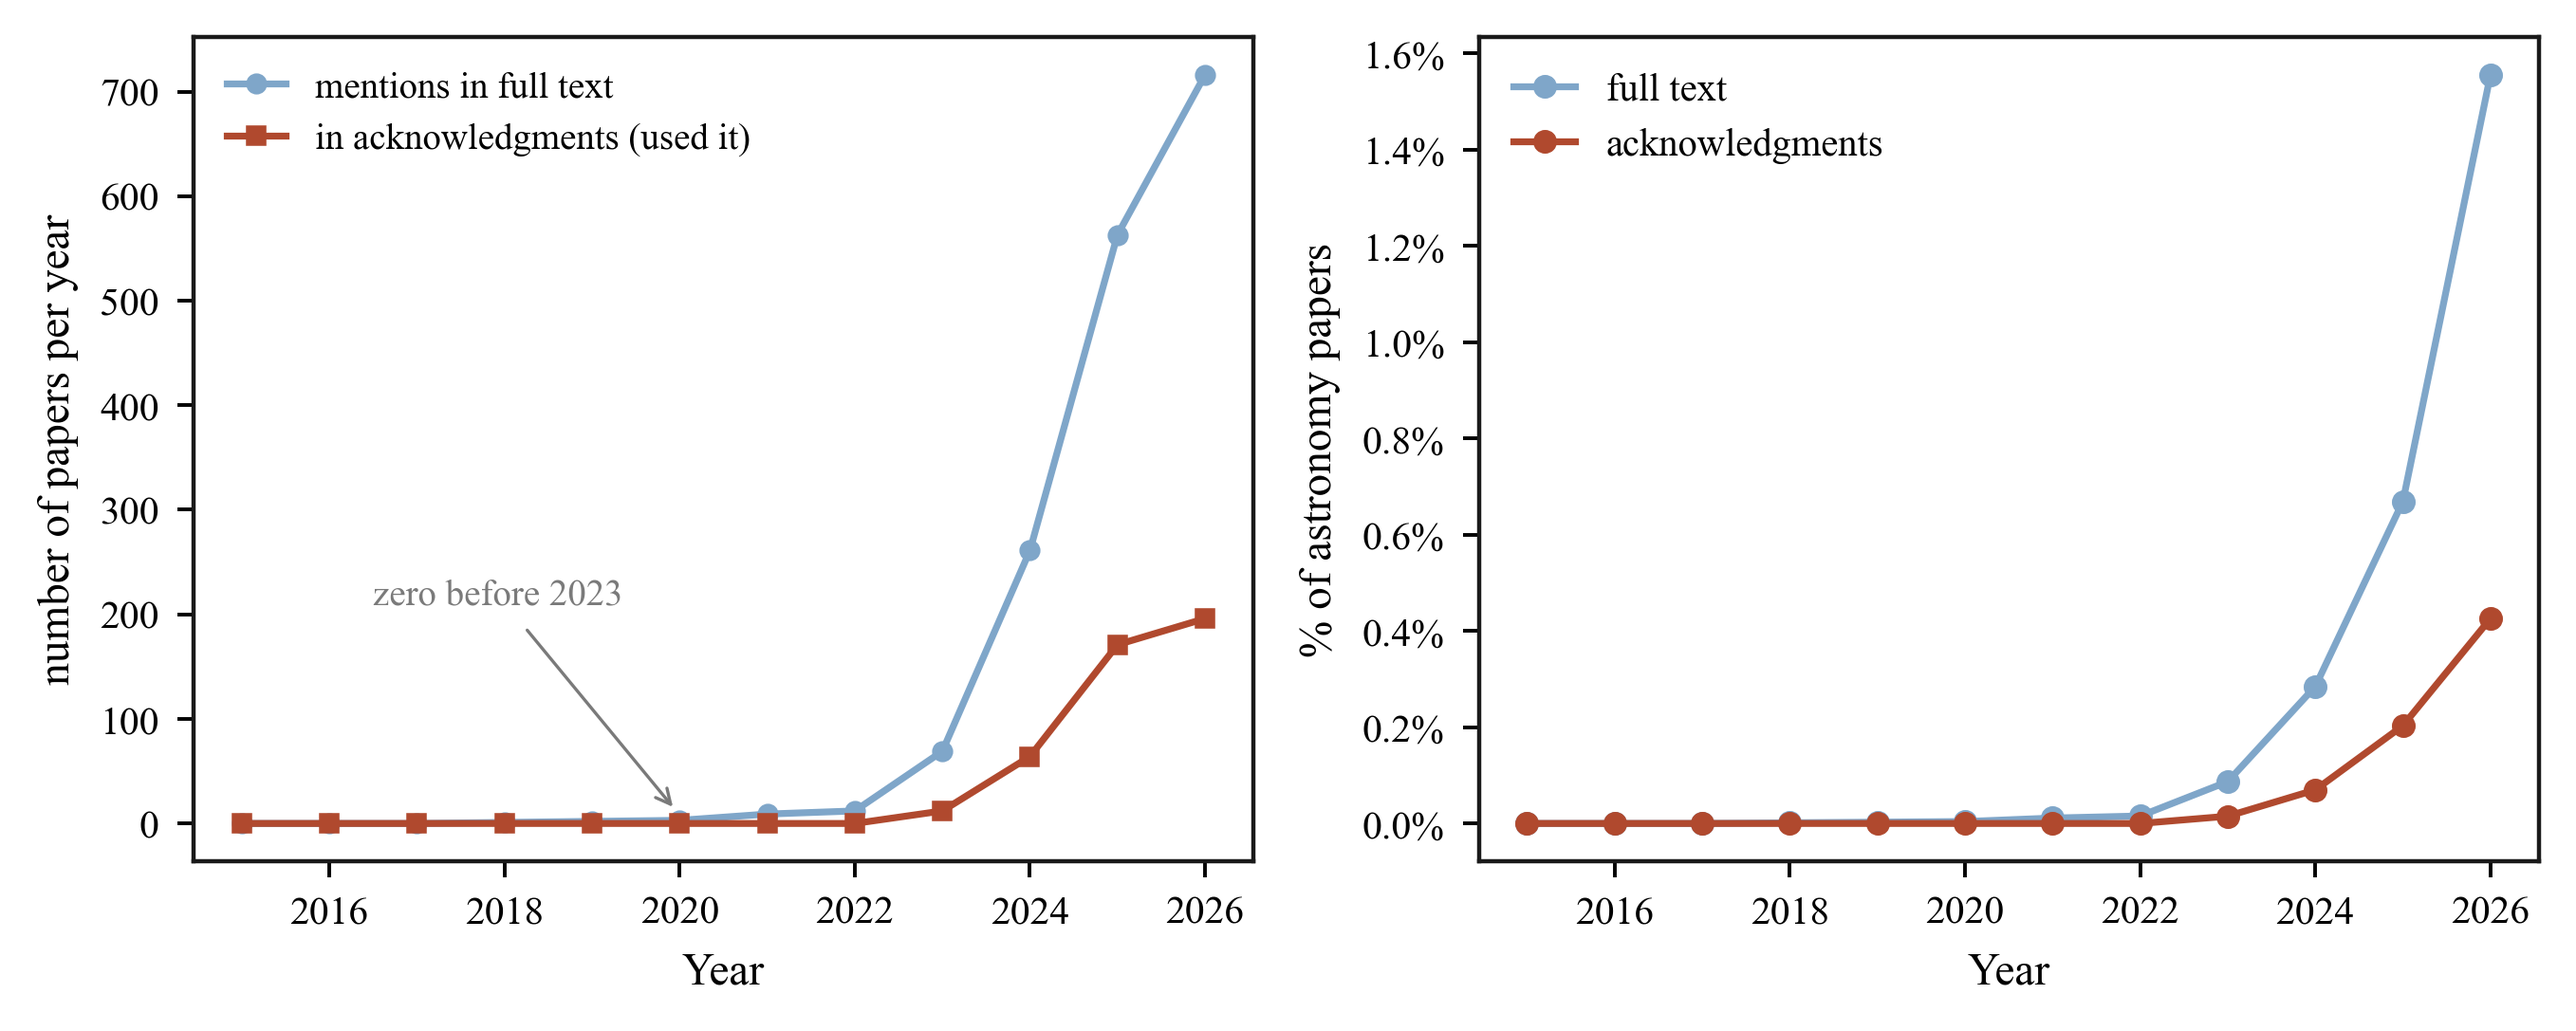
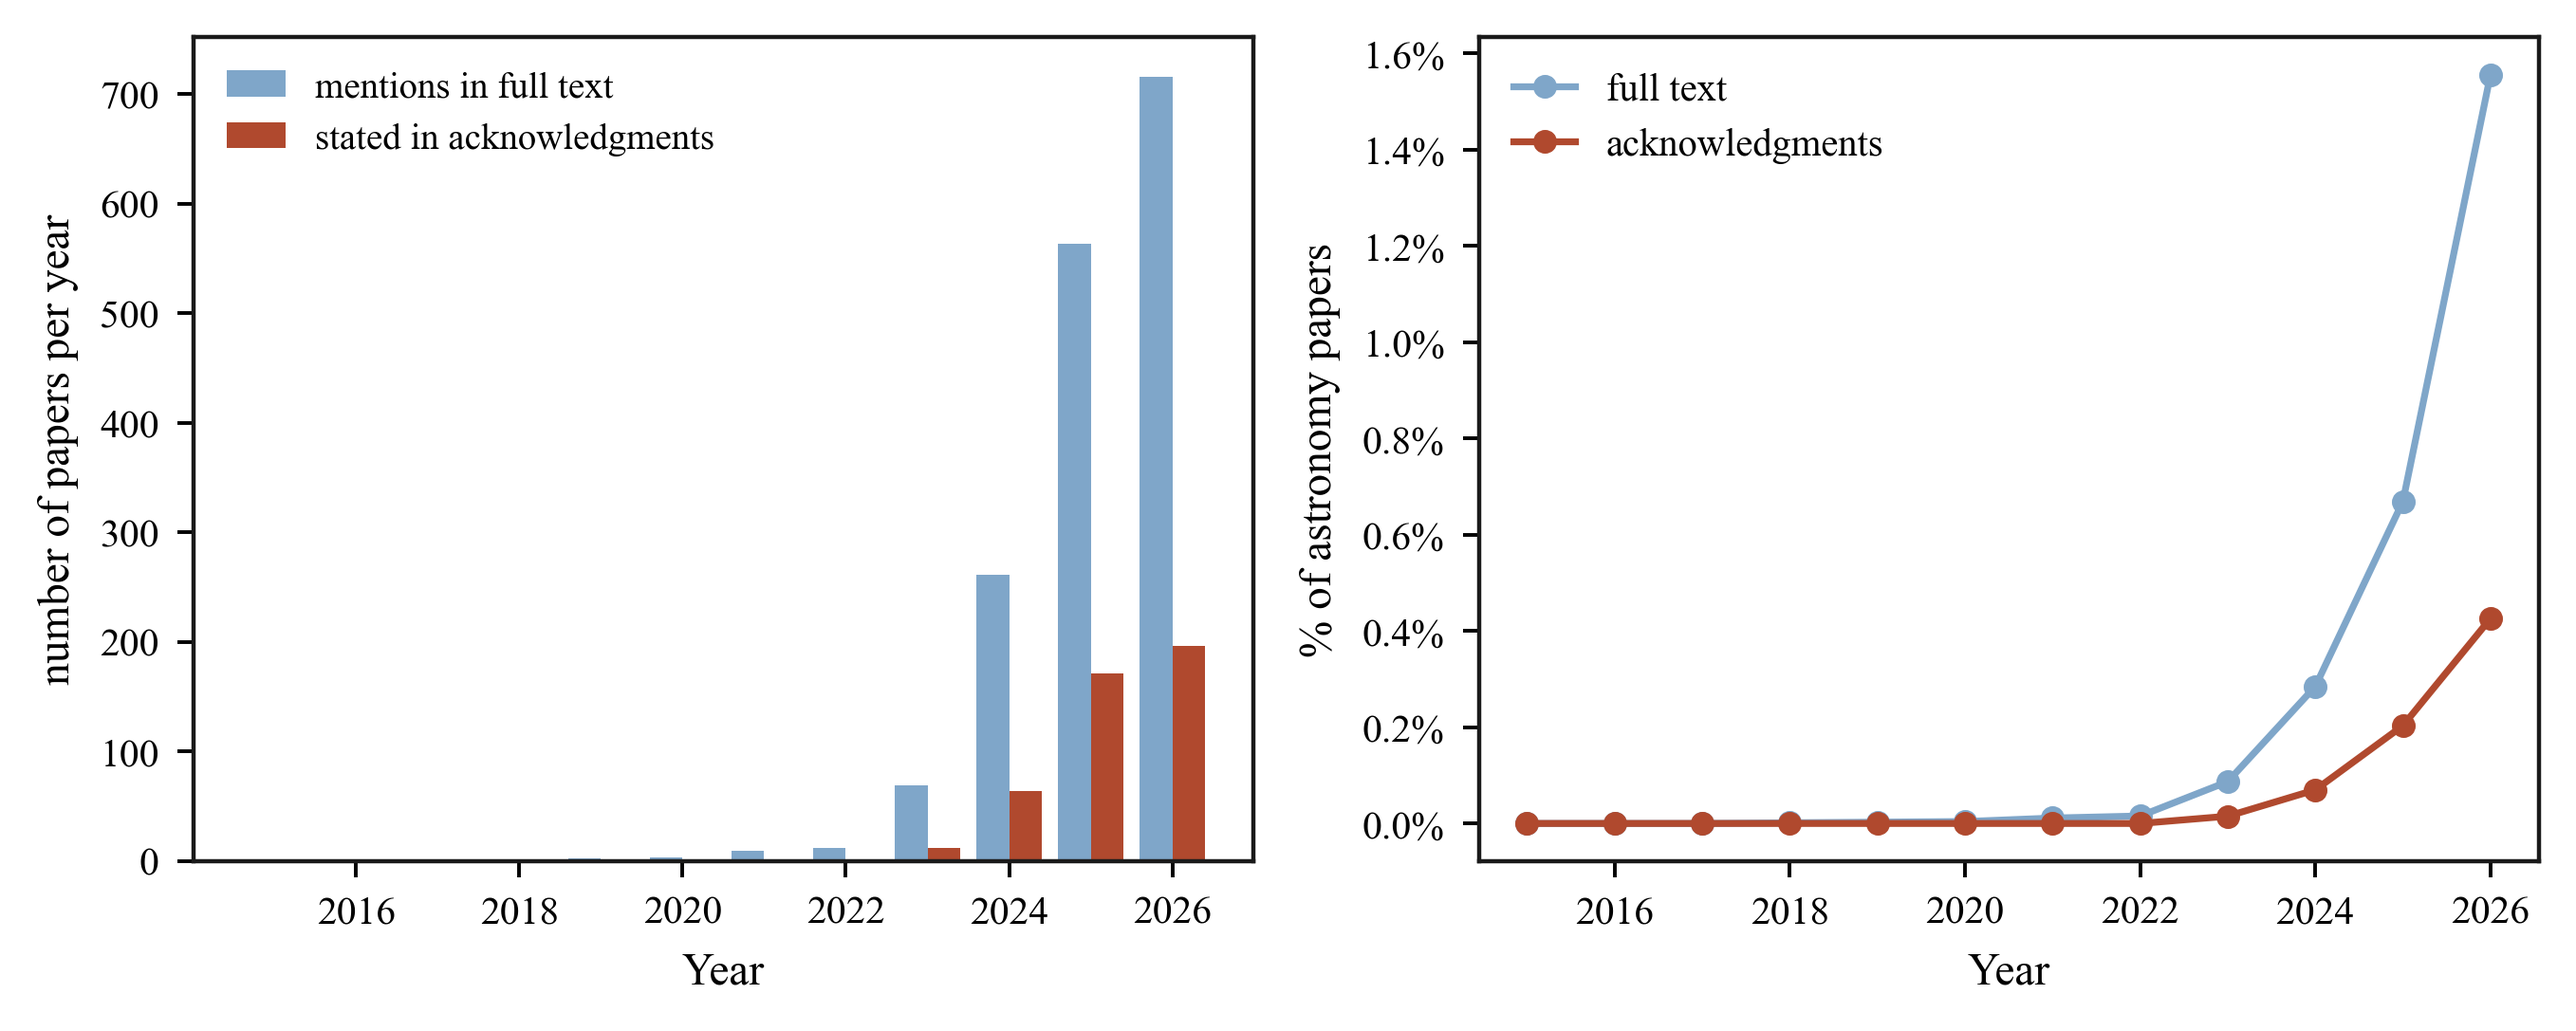
Restructure paper into standard journal form; restore two bar panels; remove editorial figure annotations
- Reorganize from ten narrative mini-sections into Introduction / Data and Methods
  (8 method subsections) / Results (9 subsections) / Discussion / Summary, following
  the structure of the genre papers (Kobak, Liang). All labels, equations, tables,
  and numbers carried over; two rigor numbers lost in an earlier aborted edit batch
  (subfield CIs, hype r and p) restored.
- Retitle sections professionally (no more 'A ladder of ways to catch it', 'Who, and
  where', 'Louder, not more careful').
- Remove editorializing in-figure text ('detection going underground', 'concealment
  zone', 'delve outed as the ChatGPT tell', 'went viral -> abandoned', '<- leads');
  interpretation moved to captions and body text.
- Restore bar form in the two places where it is the genre-legitimate choice:
  disclosure counts per year (grouped bars) and the DOI-miss classification
  (horizontal count bars). All other converted plots stay.
- Linter PASS; 17 pages; compiles clean.

diff --git a/src/plots.py b/src/plots.py
@@ -84,7 +84,7 @@ def fig2_delve_collapse():
     top.plot(a.yq, a.rate*100, color=C["black"], lw=1.3, zorder=5)
     top.set_ylabel("% with ANY marker")
     # BOTTOM: individual words, zoomed
-    for w, col, lab in [("delve", C["vermillion"], "delve  (went viral → abandoned)"),
+    for w, col, lab in [("delve", C["vermillion"], "delve"),
                         ("underscore", C["green"], "underscore"),
                         ("leveraging", C["blue"], "leveraging"),
                         ("pivotal", C["purple"], "pivotal")]:
@@ -98,9 +98,7 @@ def fig2_delve_collapse():
     bot.set_ylim(0, 2.0)
     # legend in the clear upper-left (all lines are low there in 2022-2023);
     # annotation above the data, connected by the existing dotted line
-    bot.legend(loc="upper left", ncol=1, fontsize=8.6)
-    bot.text(2025.15, 1.9, '"delve" outed as the\nChatGPT tell (mid-2024)',
-             fontsize=8.4, color=C["grey"], ha="center", va="top", style="italic")
+    bot.legend(loc="upper left", ncol=1, fontsize=7.5)
     footer(fig); fig.tight_layout(rect=[0,0.03,1,0.97])
     fig.savefig(os.path.join(FIGS, "fig2_delve_collapse.png"), bbox_inches="tight")
     plt.close(fig)
@@ -203,13 +201,13 @@ def fig4_disclosure():
     full = [d["full"][str(y)] for y in yrs]
     tot = [d["total_astro"][str(y)] for y in yrs]
     fig, (ax1, ax2) = plt.subplots(1, 2, figsize=(6.84, 2.88))
-    ax1.plot(yrs, full, "-o", color=C["sky"], lw=1.3, ms=3, label="mentions in full text")
-    ax1.plot(yrs, ack, "-s", color=C["vermillion"], lw=1.3, ms=3,
-             label="in acknowledgments (used it)")
+    ax1.bar([y-0.2 for y in yrs], full, width=0.4, color=C["sky"], label="mentions in full text")
+    ax1.bar([y+0.2 for y in yrs], ack, width=0.4, color=C["vermillion"],
+            label="stated in acknowledgments")
+    from pantera_style import no_minor_x
+    no_minor_x(ax1)
     ax1.set_ylabel("number of papers per year"); ax1.set_xlabel("Year")
     ax1.legend(fontsize=7, loc="upper left"); ax1.set_xticks(range(2016,2027,2))
-    ax1.annotate("zero before 2023", xy=(2020, 8), xytext=(2016.5, 210),
-                 fontsize=7, color=C["grey"], arrowprops=dict(arrowstyle="->", color=C["grey"], lw=0.6))
     # fraction
     frac_ack = [100*a/t for a,t in zip(ack,tot)]
     frac_full = [100*f/t for f,t in zip(full,tot)]

diff --git a/src/plots3.py b/src/plots3.py
@@ -20,7 +20,7 @@ def fig10_subfield():
         d = df[df.subfield==s].sort_values("year")
         lw = 3.2 if s == order[0] else 1.8
         ax.plot(d.year, d.rate, "-o", ms=3.2, lw=lw, color=palette[s],
-                label=s + ("  ← leads" if s == order[0] else ""))
+                label=s)
     ax.axvline(2022.85, color=C["grey"], ls="--", lw=1)
     ax.text(2022.7, 7.9, "ChatGPT", rotation=90, va="top", ha="right", fontsize=8, color=C["grey"])
     ax.set_xlabel("Year"); ax.set_ylabel("% of abstracts with LLM marker basket")
@@ -92,7 +92,7 @@ def fig11_geography():
         marker_boxes.append((mk-hx, dc-hy, mk+hx, dc+hy))
     # fixed obstacles in data coords: legend (upper-left) and annotation (upper-right)
     legend_box = (0.0, 0.86, 0.34*xmax, yhi)
-    annot_box  = (0.66*xmax, 0.58, xmax, 0.80)
+    annot_box  = (9e9, 9e9, 9e9, 9e9)   # no in-panel annotation any more
 
     def candidates(mk, dc, n, name):
         hx, hy = marker_half(n, name); pad = 0.05*dpx*72/72 + 0.06
@@ -152,9 +152,6 @@ def fig11_geography():
         if overlap(b, legend_box) or overlap(b, annot_box): probs += 1
     print(f"fig11 label overlaps remaining: {probs}")
 
-    ax.text(0.985, 0.72, "bottom-right =\nhigh use, low disclosure\n(biggest 'concealment' zone)",
-            transform=ax.transAxes, ha="right", va="top", fontsize=8.6,
-            color=C["grey"], style="italic")
     ax.set_xlabel("LLM marker-word incidence, 2025 (% of papers)")
     ax.set_ylabel("Explicit LLM disclosure, 2025 (% of papers)")
     from matplotlib.lines import Line2D
@@ -193,10 +190,9 @@ def fig12_citation_integrity():
     labels = [k for k in order if k in cc]; vals = [cc[k] for k in labels]
     from pantera_style import no_minor_y, no_minor_x
     ys = list(range(len(labels)))
+    axL.barh(ys, vals, color=C["green"], height=0.62)
     for yi, v in zip(ys, vals):
-        axL.plot([0, v], [yi, yi], lw=0.7, color="#CCCCCC", zorder=1)
-        axL.plot(v, yi, "o", ms=5, color=C["green"], zorder=3)
-        axL.text(v+3, yi, str(v), va="center", fontsize=7, color="#555555")
+        axL.text(v+2.5, yi, str(v), va="center", fontsize=7, color="#555555")
     no_minor_y(axL)
     axL.set_yticks(ys); axL.set_yticklabels(labels, fontsize=6.5)
     axL.invert_yaxis()

diff --git a/src/plots2.py b/src/plots2.py
@@ -53,7 +53,6 @@ def fig8_detectability():
              label="early tells")
     axL.plot(s.yq, s.rising*100, "-o", ms=2.8, color=C["green"], lw=1.2,
              label="late tells")
-    axL.text(2025.55, axL.get_ylim()[1]*0.12, "2026:\nboth fall", fontsize=7.3, color=C["grey"])
     axL.set_xlabel("Year (quarterly)"); axL.set_ylabel("% of abstracts with marker(s)")
     axL.legend(loc="upper left", fontsize=7.5)
     axL.set_xlim(2022, 2026.6)
@@ -61,10 +60,6 @@ def fig8_detectability():
     axR.plot(yrs, frac_full, "-o", color=C["sky"], lw=1.4, ms=3)
     axR.set_xlabel("Year"); axR.set_ylabel("% of astronomy papers disclosing LLM use (full text)")
     axR.set_xticks(range(2016, 2027, 2))
-    axR.annotate("usage up while word-signal down\n= detection going underground",
-                 xy=(2026, frac_full[-1]), xytext=(2019.4, frac_full[-1]*0.62),
-                 fontsize=7.5, color=C["black"], fontweight="normal",
-                 arrowprops=dict(arrowstyle="->", color=C["black"]))
     footer(fig); fig.tight_layout()
     fig.savefig(os.path.join(FIGS, "fig8_detectability_erosion.png"), bbox_inches="tight"); plt.close(fig)
 
